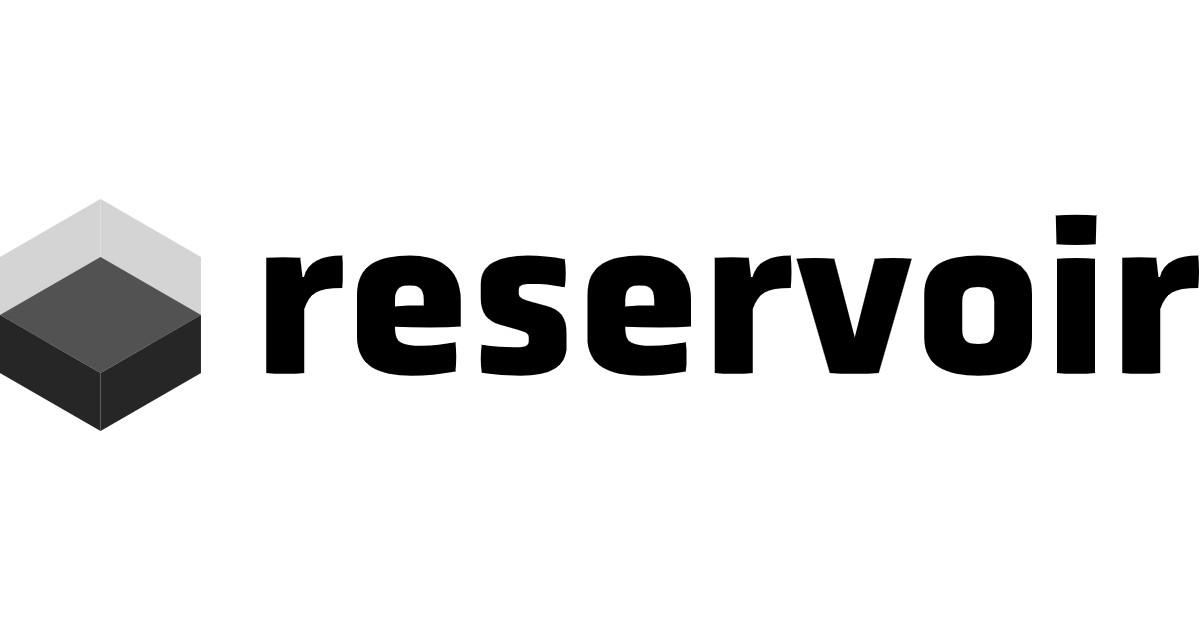
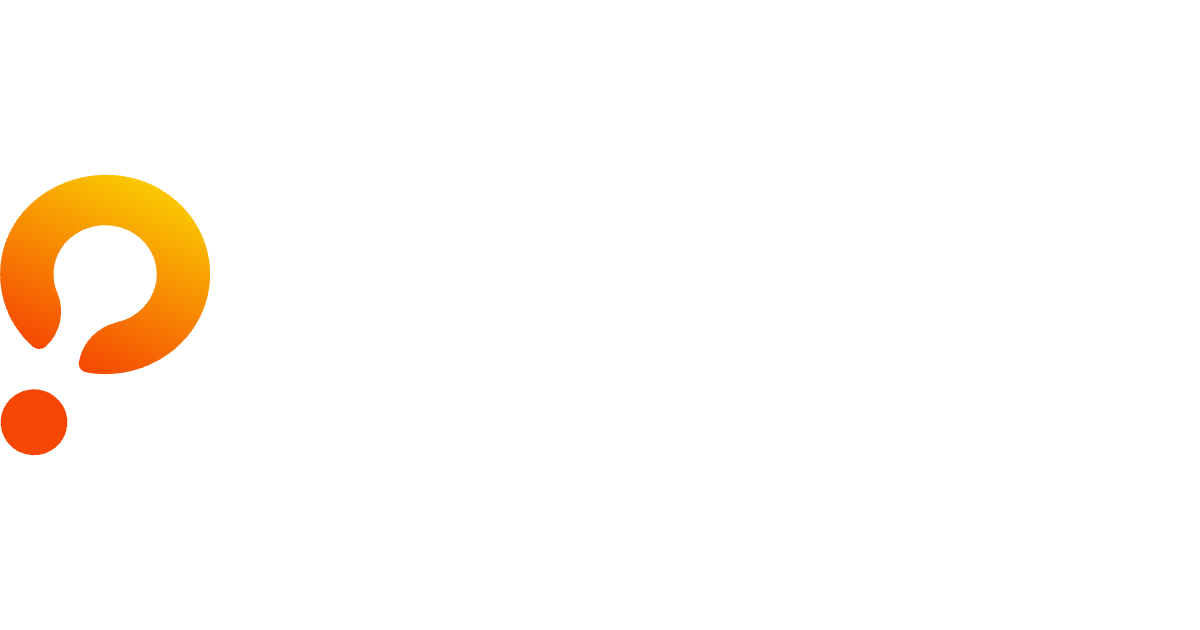
feat: branding

Changed region(s): [[0.2158, 0.3317, 1.0, 0.6032], [0.0, 0.2714, 0.185, 0.7238]]

diff --git a/apps/web/src/components/Logo/NavIcon.tsx b/apps/web/src/components/Logo/NavIcon.tsx
@@ -7,64 +7,31 @@ function Logo({ onClick }: { onClick?: () => void }) {
     <svg
       xmlns="http://www.w3.org/2000/svg"
       width="20"
-      height="22"
-      viewBox="0 0 141 127"
+      height="20"
+      viewBox="0 0 36 36"
       fill="none"
       onClick={onClick}
       cursor="pointer"
     >
-      <path d="M138.024 111.005L74.0034 73.9804V0L138.024 37.0245V111.005Z" fill="#80D8FF" />
-      <path d="M9.91211 111.005L74.001 73.9804V0L9.91211 37.0245V111.005Z" fill="#7ACFFF" />
       <path
-        d="M74.001 111.005L138.021 73.9808L74.001 37.0249L9.91211 73.9808L74.001 111.005Z"
-        fill="url(#paint0_linear_401_13)"
-      />
-      <path opacity="0.3" d="M74.001 147.961L9.91211 111.005V37.0249L74.001 73.9808V147.961Z" fill="#E4F0FE" />
-      <path d="M9.91211 111.004L74.001 147.96V111.004L9.91211 73.9797V111.004Z" fill="url(#paint1_linear_401_13)" />
-      <path opacity="0.3" d="M74.0034 147.961L138.024 111.005V37.0249L74.0034 73.9808V147.961Z" fill="#D0E6FF" />
-      <path d="M138.024 111.004L74.0034 147.96V111.004L138.024 73.9797V111.004Z" fill="url(#paint2_linear_401_13)" />
-      <path opacity="0.3" d="M74.001 73.9804L138.021 37.0245L74.001 0L9.91211 37.0245L74.001 73.9804Z" fill="white" />
+        d="M2.50153 35.5773C1.10485 34.9105 0.182327 33.5502 0.0897005 32.021C-0.0029259 30.4918 0.748818 29.0326 2.05504 28.2061C3.36127 27.3796 5.0179 27.315 6.38609 28.0371C8.44313 29.1228 9.24278 31.6339 8.1852 33.6867C7.12762 35.7396 4.60139 36.5799 2.50153 35.5773Z"
+        fill="#F54703"
+      ></path>
+      <path
+        d="M1.52302 6.85134C-1.24729 11.9202 -0.14599 18.1947 4.19173 22.0559C4.67344 22.4919 5.42492 22.4824 5.88737 22.0464C7.76931 20.2967 8.36281 17.588 7.38069 15.2309C6.30276 12.7864 6.94414 9.93706 8.97036 8.16894C11.0345 6.36293 14.0029 5.96229 16.4851 7.15468C18.9456 8.30199 20.3906 10.8633 20.0787 13.5246C19.715 16.191 17.6927 18.3475 15.0207 18.9183C12.479 19.5103 10.5439 21.5412 10.1072 24.0749C10.0109 24.6911 10.4444 25.2693 11.0995 25.383C17.6991 26.5205 24.1733 22.8616 26.2833 16.8139C28.4028 10.7473 25.5125 4.14031 19.5103 1.29658C13.036 -1.7557 4.8565 0.775225 1.52302 6.85134Z"
+        fill="url(#paint0_linear_1039_3367)"
+      ></path>
       <defs>
         <linearGradient
-          id="paint0_linear_401_13"
-          x1="12.3091"
-          y1="87.7931"
-          x2="137.355"
-          y2="59.8427"
+          id="paint0_linear_1039_3367"
+          x1="19.4628"
+          y1="29.6578"
+          x2="30.4787"
+          y2="6.5862"
           gradientUnits="userSpaceOnUse"
         >
-          <stop stopColor="#C132CE" />
-          <stop offset="1" stopColor="#425AFA" />
-        </linearGradient>
-        <linearGradient
-          id="paint1_linear_401_13"
-          x1="34.5456"
-          y1="86.3782"
-          x2="52.9892"
-          y2="147.733"
-          gradientUnits="userSpaceOnUse"
-        >
-          <stop stopColor="#425AFA" />
-          <stop offset="0.16" stopColor="#5A52F2" />
-          <stop offset="0.55" stopColor="#9241DE" />
-          <stop offset="0.84" stopColor="#6E56CF" />
-          <stop offset="1" stopColor="#C132CE" />
-        </linearGradient>
-        <linearGradient
-          id="paint2_linear_401_13"
-          x1="85.3258"
-          y1="136.381"
-          x2="126.183"
-          y2="86.2497"
-          gradientUnits="userSpaceOnUse"
-        >
-          <stop stopColor="#C132CE" />
-          <stop offset="0.1" stopColor="#AB39D6" />
-          <stop offset="0.28" stopColor="#8545E3" />
-          <stop offset="0.47" stopColor="#684EED" />
-          <stop offset="0.65" stopColor="#5355F4" />
-          <stop offset="0.83" stopColor="#4659F9" />
-          <stop offset="1" stopColor="#425AFA" />
+          <stop stopColor="#F54703"></stop>
+          <stop offset="1" stopColor="#FAC902"></stop>
         </linearGradient>
       </defs>
     </svg>

diff --git a/apps/web/src/graphql/thegraph/apolloLegacy.ts b/apps/web/src/graphql/thegraph/apolloLegacy.ts
@@ -7,18 +7,18 @@ export type Ticks = AllV3TicksQuery['ticks']
 export type TickData = Ticks[number]
 
 const CHAIN_SUBGRAPH_URL: Record<number, string> = {
-  [UniverseChainId.AbstractTestnet]: 'https://graph-node.reservoir.tools/subgraphs/name/absctract-testnet/v3-subgraph',
-  [UniverseChainId.Zero]: 'https://graph-node.reservoir.tools/subgraphs/name/zero/v3-subgraph',
-  [UniverseChainId.BOB]: 'https://graph-node.reservoir.tools/subgraphs/name/bob/v3-subgraph',
-  [UniverseChainId.CYBER]: 'https://graph-node.reservoir.tools/subgraphs/name/cyber/v3-subgraph',
-  [UniverseChainId.SHAPE]: 'https://graph-node.reservoir.tools/subgraphs/name/shape/v3-subgraph',
-  [UniverseChainId.INK]: 'https://graph-node.reservoir.tools/subgraphs/name/ink/v3-subgraph',
-  [UniverseChainId.REDSTONE]: 'https://graph-node.reservoir.tools/subgraphs/name/redstone/v3-subgraph',
-  [UniverseChainId.REDSTONE_GARNET]: 'https://graph-node.reservoir.tools/subgraphs/name/redstone-garnet/v3-subgraph',
-  [UniverseChainId.AbstractMainnet]: 'https://graph-node.reservoir.tools/subgraphs/name/abstract/v3-subgraph',
-  [UniverseChainId.AnimeTestnet]: 'https://graph-node.reservoir.tools/subgraphs/name/anime-testnet/v3-subgraph',
-  [UniverseChainId.Anime]: 'https://graph-node.reservoir.tools/subgraphs/name/anime/v3-subgraph',
-  [UniverseChainId.Mode]: 'https://graph-node.reservoir.tools/subgraphs/name/mode/v3-subgraph',
+  [UniverseChainId.AbstractTestnet]: 'https://graph-node.replace.domain/subgraphs/name/absctract-testnet/v3-subgraph',
+  [UniverseChainId.Zero]: 'https://graph-node.replace.domain/subgraphs/name/zero/v3-subgraph',
+  [UniverseChainId.BOB]: 'https://graph-node.replace.domain/subgraphs/name/bob/v3-subgraph',
+  [UniverseChainId.CYBER]: 'https://graph-node.replace.domain/subgraphs/name/cyber/v3-subgraph',
+  [UniverseChainId.SHAPE]: 'https://graph-node.replace.domain/subgraphs/name/shape/v3-subgraph',
+  [UniverseChainId.INK]: 'https://graph-node.replace.domain/subgraphs/name/ink/v3-subgraph',
+  [UniverseChainId.REDSTONE]: 'https://graph-node.replace.domain/subgraphs/name/redstone/v3-subgraph',
+  [UniverseChainId.REDSTONE_GARNET]: 'https://graph-node.replace.domain/subgraphs/name/redstone-garnet/v3-subgraph',
+  [UniverseChainId.AbstractMainnet]: 'https://graph-node.replace.domain/subgraphs/name/abstract/v3-subgraph',
+  [UniverseChainId.AnimeTestnet]: 'https://graph-node.replace.domain/subgraphs/name/anime-testnet/v3-subgraph',
+  [UniverseChainId.Anime]: 'https://graph-node.replace.domain/subgraphs/name/anime/v3-subgraph',
+  [UniverseChainId.Mode]: 'https://graph-node.replace.domain/subgraphs/name/mode/v3-subgraph',
 }
 
 const httpLink = new HttpLink({ uri: CHAIN_SUBGRAPH_URL[UniverseChainId.AbstractTestnet] })

diff --git a/apps/web/src/components/NavBar/Tabs/TabsContent.tsx b/apps/web/src/components/NavBar/Tabs/TabsContent.tsx
@@ -82,7 +82,7 @@ export const useTabsContent = (props?: { includeNftsLink?: boolean }): TabsSecti
     },
     {
       title: t('common.explore'),
-      href: `https://info.reservoir.tools/#/${UNIVERSE_CHAIN_INFO[chainId as UniverseChainId].urlParam}`,
+      href: `https://info.replace.domain/#/${UNIVERSE_CHAIN_INFO[chainId as UniverseChainId].urlParam}`,
       isActive: pathname.startsWith('/explore') || pathname.startsWith('/nfts'),
       items: forkConfig.uniSpecificFeaturesEnabled
         ? [
@@ -114,7 +114,7 @@ export const useTabsContent = (props?: { includeNftsLink?: boolean }): TabsSecti
             {
               label: 'V3 Analytics',
               quickKey: 'T',
-              href: `https://info.reservoir.tools/#/${UNIVERSE_CHAIN_INFO[chainId as UniverseChainId].urlParam}`,
+              href: `https://info.replace.domain/#/${UNIVERSE_CHAIN_INFO[chainId as UniverseChainId].urlParam}`,
               internal: false,
             },
             ...(![+UniverseChainId.BOB, UniverseChainId.REDSTONE, UniverseChainId.REDSTONE_GARNET].includes(+chainId!)
@@ -122,7 +122,7 @@ export const useTabsContent = (props?: { includeNftsLink?: boolean }): TabsSecti
                   {
                     label: 'V2 Analytics',
                     quickKey: 'P',
-                    href: `https://v2-info-${UNIVERSE_CHAIN_INFO[chainId as UniverseChainId].urlParam.replace(/_/g, '-')}.reservoir.tools`,
+                    href: `https://v2-info-${UNIVERSE_CHAIN_INFO[chainId as UniverseChainId].urlParam.replace(/_/g, '-')}.replace.domain`,
                     internal: false,
                   },
                 ]

diff --git a/apps/web/src/theme/colors.ts b/apps/web/src/theme/colors.ts
@@ -118,9 +118,9 @@ export const colors = {
   surface3_hovered_dark: 'rgba(255, 255, 255, 0.16))',
   surface4_dark: '#FFFFFF20',
   surface5_dark: '#00000004',
-  accent1_dark: '#6E56CF',
-  accent2_dark: '#80D8FF',
-  accent3_dark: '#4C82FB',
+  accent1_dark: '#F88802',
+  accent2_dark: '#FAC902',
+  accent3_dark: '#F54703',
   neutral1_light: '#222222',
   neutral2_light: '#7D7D7D',
   neutral3_light: '#CECECE',
@@ -132,9 +132,9 @@ export const colors = {
   surface3_hovered_light: 'rgba(34, 34, 34, 0.12))',
   surface4_light: '#FFFFFF64',
   surface5_light: '#00000004',
-  accent1_light: '#6E56CF',
-  accent2_light: '#80D8FF',
-  accent3_light: '#4C82FB',
+  accent1_light: '#F88802',
+  accent2_light: '#FAC902',
+  accent3_light: '#F54703',
   success: '#40B66B',
   critical: '#FF5F52',
   critical2_dark: '#2E0805',

diff --git a/packages/ui/src/theme/color/colors.ts b/packages/ui/src/theme/color/colors.ts
@@ -201,10 +201,10 @@ const sporeLight = {
   surface4: 'rgba(255,255,255,0.64)',
   surface5: 'rgba(0,0,0,0.04)',
 
-  accent1: '#6E56CF',
-  accent1Hovered: '#5A52F2',
-  accent2: '#F4FFF5',
-  accent2Hovered: '#E6FFE6',
+  accent1: '#FAC902',
+  accent1Hovered: '#FABB02',
+  accent2: '#F54703',
+  accent2Hovered: '#F65603',
   accent3: '#222222',
   accent3Hovered: colors.black,
 
@@ -246,10 +246,10 @@ const sporeDark = {
   surface4: 'rgba(255,255,255,0.20)',
   surface5: 'rgba(0,0,0,0.04)',
 
-  accent1: '#6E56CF',
-  accent1Hovered: '#5A52F2',
-  accent2: '#0D5132',
-  accent2Hovered: '#0D512C',
+  accent1: '#F88802',
+  accent1Hovered: '#FABB02',
+  accent2: '#F54703',
+  accent2Hovered: '#F88802',
   accent3: colors.white,
   accent3Hovered: '#F5F5F5',
 

diff --git a/apps/web/src/pages/Landing/sections/Footer.tsx b/apps/web/src/pages/Landing/sections/Footer.tsx
@@ -121,7 +121,7 @@ export function Footer() {
         width="100%"
         justifyContent="space-between"
       >
-        <Text variant="body3">© 2024</Text>
+        <Text variant="body3">© 2025</Text>
         <Text variant="body3">Swap Interface is a fork of open source Uniswap Protocol</Text>
         <Flex row alignItems="center" gap="$spacing16">
           {/* <Anchor textDecorationLine="none" href="https://uniswap.org/trademark" target="_blank">

diff --git a/apps/web/src/constants/lists.ts b/apps/web/src/constants/lists.ts
@@ -31,7 +31,7 @@ export const DEFAULT_ACTIVE_LIST_URLS: string[] = [
 export const DEFAULT_LIST_OF_LISTS: string[] = [...DEFAULT_ACTIVE_LIST_URLS]
 
 function getTokenListApiURL(slug: string) {
-  return `https://api-${slug}.reservoir.tools/tokenlist/v1`
+  return `https://api-${slug}.replace.domain/tokenlist/v1`
 }
 
 function getLegacyTokenListApiURL(chainId: string) {

diff --git a/apps/web/src/components/Web3Provider/walletConnect.ts b/apps/web/src/components/Web3Provider/walletConnect.ts
@@ -41,8 +41,8 @@ export const WC_PARAMS = {
   metadata: {
     name: 'Reservoir Swap',
     description: 'Reservoir Swap',
-    url: 'https://swap.reservoir.tools',
-    icons: ['https://swap.reservoir.tools/favicon.png'],
+    url: 'https://swap.replace.domain',
+    icons: ['https://swap.replace.domain/favicon.png'],
   },
   qrModalOptions: {
     themeVariables: {
